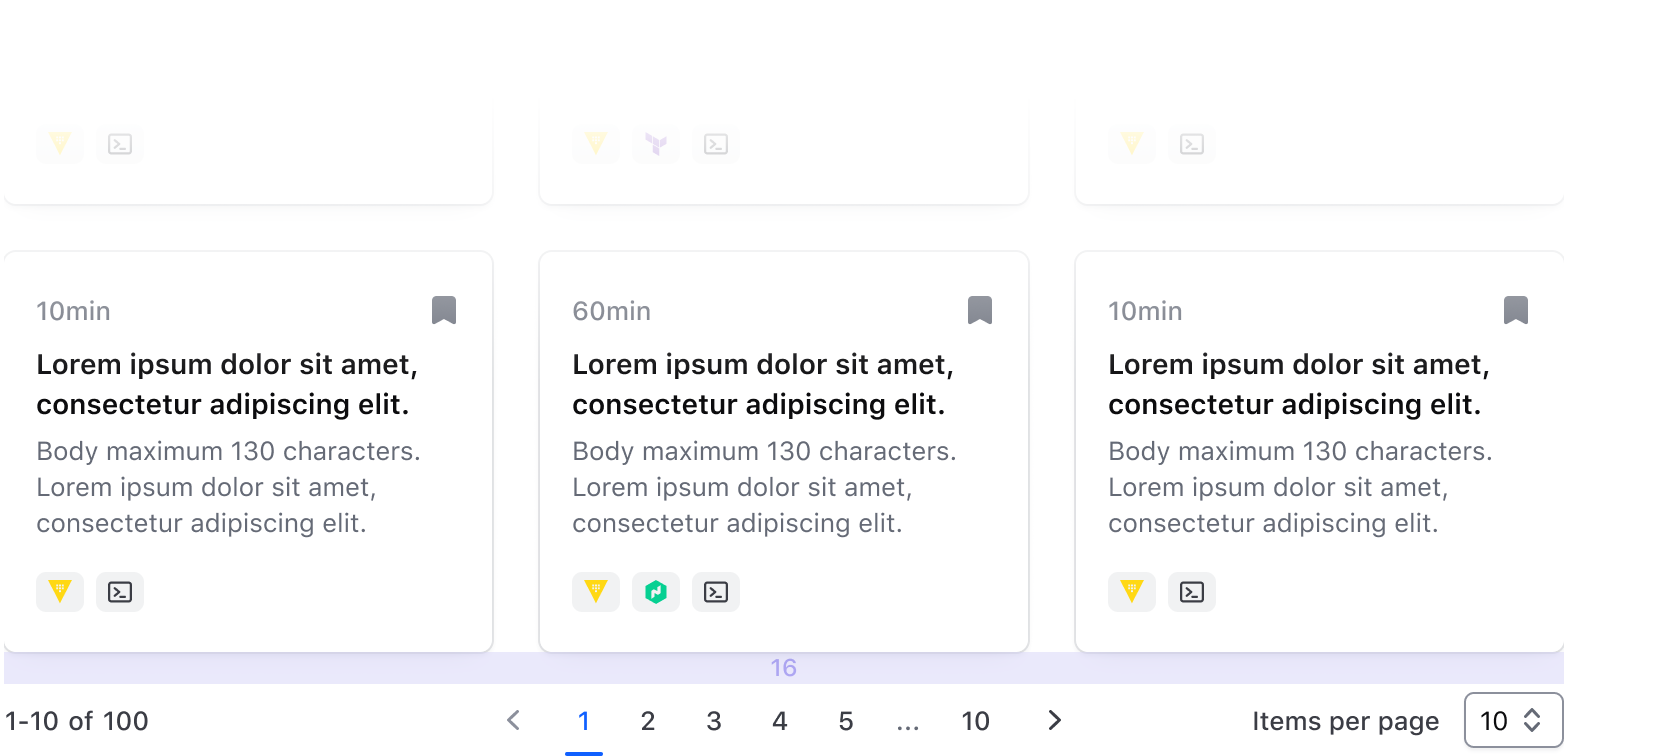
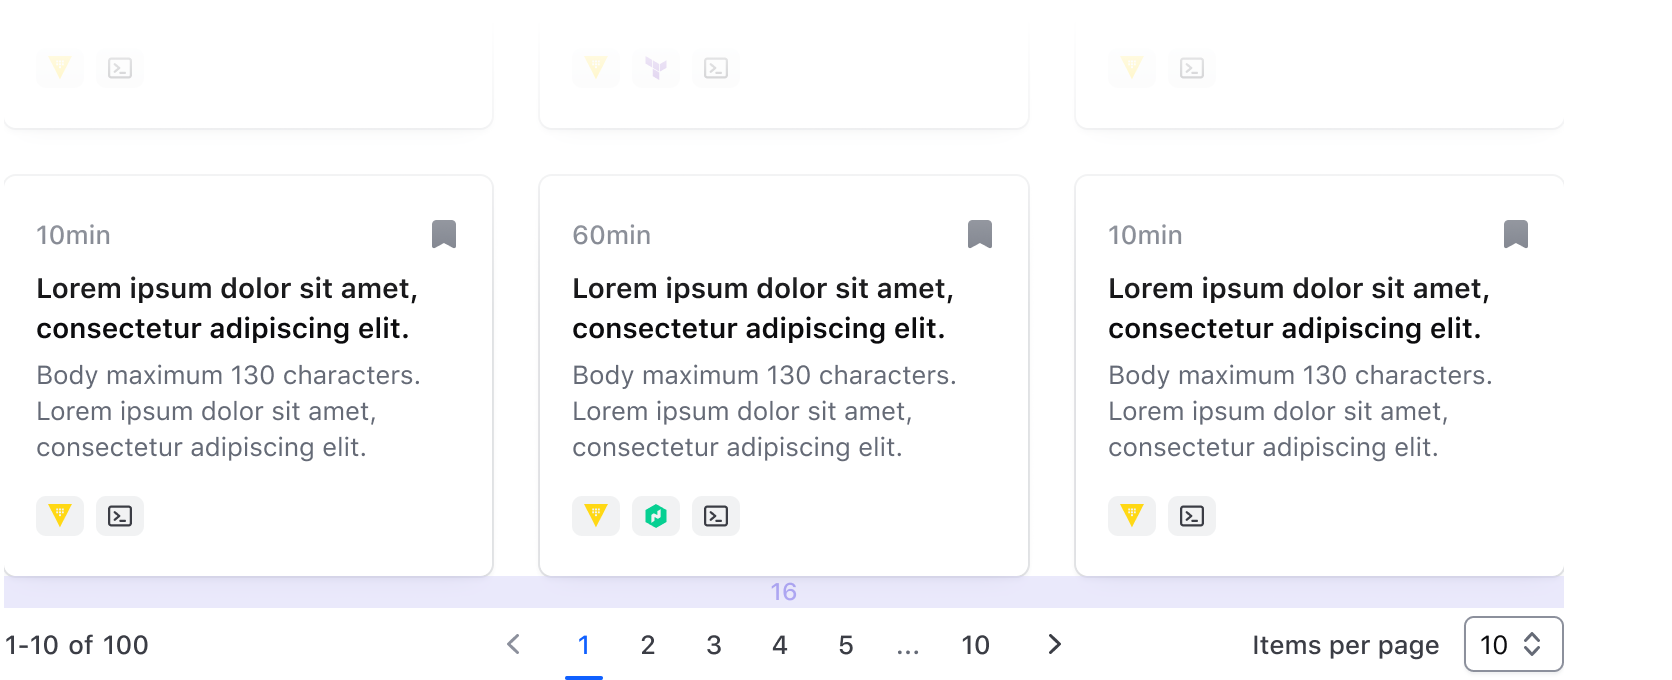
Minor copy update

diff --git a/website/docs/components/pagination/partials/guidelines/guidelines.md b/website/docs/components/pagination/partials/guidelines/guidelines.md
@@ -39,6 +39,10 @@ When pairing the pagination or pagination bar with your content, we recommend le
 
 If your product uses a significantly higher or lower spacing scale, increase or decrease the spacing accordingly.
 
+#### Spacing examples
+
 ![Spacing for pagination paired with tables](/assets/components/pagination/pagination-spacing-tables.png)
+
+---
 
 ![Spacing for pagination paired with not contained content](/assets/components/pagination/pagination-spacing-not-contained.png)
